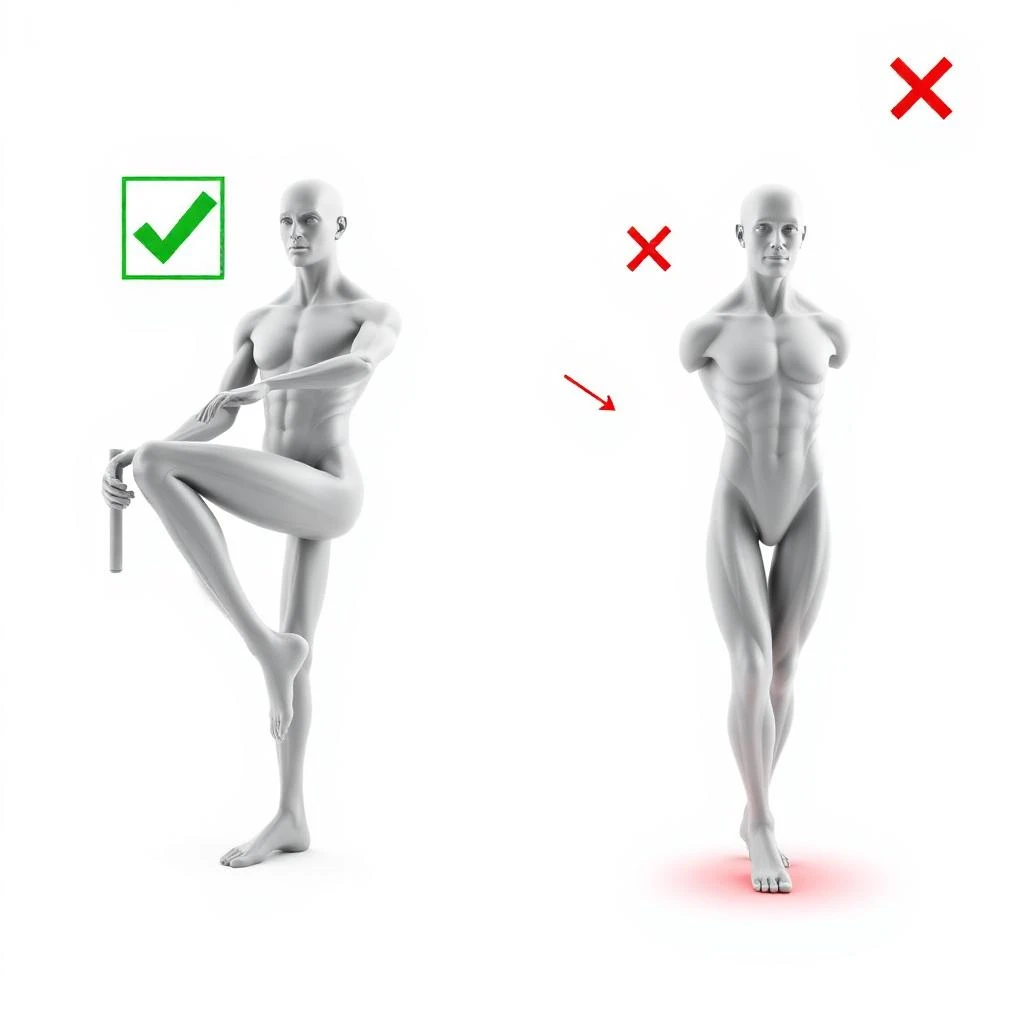
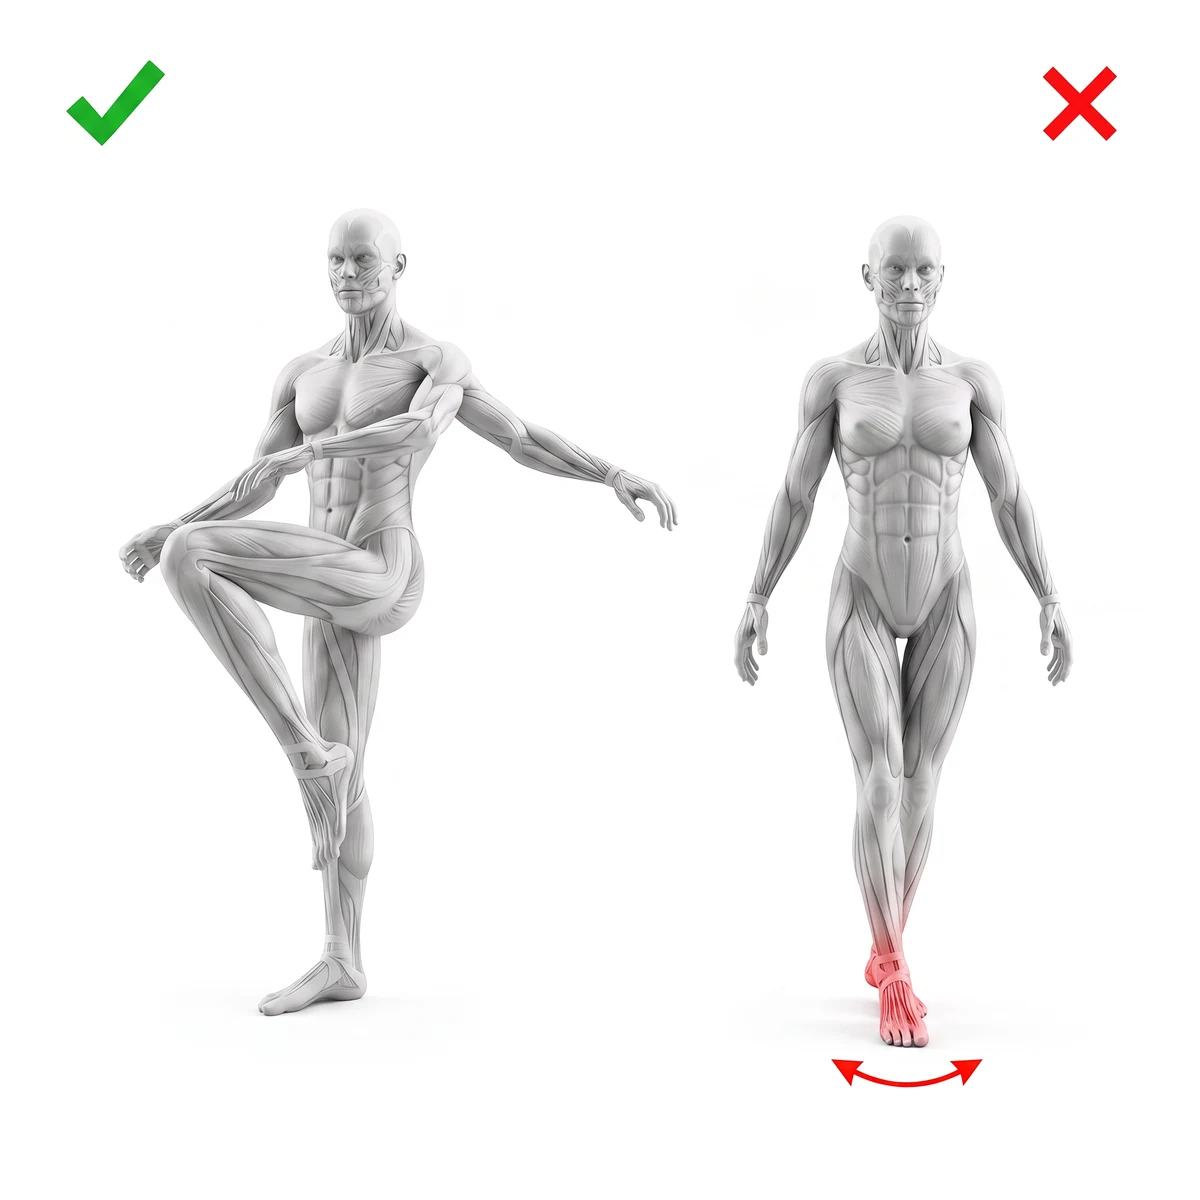
Varredura de anatomia fechada: 283 imagens de erro lidas, 9 corpos impossiveis corrigidos
O Filipe apontou o dead bug com os dois bracos saindo do mesmo ombro. As passadas
anteriores tinham fechado execucoes, analises, bonecos e variacoes; faltava a familia
das imagens de ERRO. Li as 283, uma a uma, em folha de contato de celula grande.

Nove estavam com o corpo impossivel, e nao todas do mesmo jeito:

  bird-dog-2                   uma mao solta flutuando no ar, e o pe da perna elevada virou coto
  crucifixo-inverso-0          tres halteres para duas maos, um deles sem braco nenhum segurando
  dead-bug-2                   duas cabecas e dois troncos fundidos no mesmo quadril
  equilibrio-unipodal-0        a figura do erro sem os dois bracos, amputada no deltoide
  wall-slide-1                 vao entre o ombro e a mao nas duas figuras, e parede so de um lado
  puxada-supinada-0            caveira com orbitas e dentes no lugar do rosto
  elevacao-joelhos-suspenso-1  a mesma caveira, nas duas figuras
  puxada-supinada-2            esfera branca lisa, sem rosto nenhum
  clam-shell-1                 elastico no tornozelo em vez de acima do joelho, e cabeca deformada

As tres ultimas sao a pendencia de "rosto esfolado" que a memoria do projeto ja
registrava sem caso concreto. Agora tem caso e tem correcao.

As nove foram regeradas por img2img descrevendo a GEOMETRIA e a CONTAGEM, nunca o
defeito, e conferidas com o olho uma a uma. Tres voltaram para segunda passada: o dead
bug tinha perdido um braco, o clam shell ficou espremido no rodape e o equilibrio saiu
[…]

diff --git a/.claude/skills/imagens-lovable/SKILL.md b/.claude/skills/imagens-lovable/SKILL.md
@@ -204,6 +204,57 @@ imagem ensina um aparelho que não existe.
 medível por script. O `check:pares` mede cena e proporção porque essas têm número; anatomia não
 tem. Aqui o método é o olho, e o que fica registrado é a PERGUNTA a fazer, não uma asserção.
 
+### ADENDO de 23/08/2026: as 5 formas de corpo impossível, e o download que mente duas vezes
+
+Varredura de anatomia fechada nas cinco famílias de imagem: 101 execuções, 100 análises, 101
+bonecos, 191 variações e **283 imagens de erro**. Nas variações e nos bonecos, zero defeitos
+novos. Nas imagens de erro, **9 defeitos em 283**, e eles NÃO são todos "membro no lugar errado".
+São cinco formas diferentes de corpo impossível, e vale procurar as cinco:
+
+1. **Membro solto flutuando.** Uma mão no ar, desligada de qualquer braço (`bird-dog-2`).
+2. **Membro amputado.** Os dois braços terminando no deltoide, sem antebraço nem mão
+   (`equilibrio-unipodal-0`); ou um vão entre o ombro e a mão (`wall-slide-1`).
+3. **Corpo duplicado.** Duas cabeças e dois troncos fundidos no mesmo quadril (`dead-bug-2`).
+4. **Objeto duplicado.** Três halteres para duas mãos, um deles sem braço nenhum segurando
+   (`crucifixo-inverso-0`). O contador de objetos é tão importante quanto o de membros.
+5. **Cabeça errada.** Crânio esquelético com órbitas e dentes no lugar do rosto
+   (`puxada-supinada-0`, `elevacao-joelhos-suspenso-1`), ou esfera branca lisa sem rosto
+   nenhum (`puxada-supinada-2`). Esta é a pendência de "rosto esfolado" que o projeto já
+   registrava, agora com caso concreto e com correção.
+
+**Uma família limpa não diz nada sobre a outra.** As 191 variações passaram inteiras e as 283
+imagens de erro tinham 9 defeitos. São pipelines diferentes (foto de difusão contra render 3D
+posado), e o erro de um não aparece no outro. Varra família por família.
+
+**No prompt, continue descrevendo a geometria, e acrescente a CONTAGEM.** "Exatamente DOIS
+halteres, um em cada mão, e cada haltere fechado dentro de uma mão que se liga a um antebraço,
+a um braço e a um ombro" resolveu de primeira. "Conserte os halteres" não resolveria.
+
+**Para a cabeça, descreva o que ela É, não o que ela não é.** O que funcionou: "cabeça humana
+íntegra, coberta de pele, com testa, olhos, nariz, boca, queixo e uma orelha de cada lado",
+seguido do que está proibido. Só o "não pode ser caveira" não basta.
+
+#### O download mente de dois jeitos, e os dois aconteceram aqui
+
+Ontem a regra virou "apague o local antes e busque com `?v=<timestamp>`". **Não basta.** Hoje:
+
+- **`deploy_project` devolve `status: pending` e o domínio continua servindo o build ANTERIOR,
+  por mais de dez minutos.** Baixei 9 arquivos e 8 vieram 404. O nono, `dead-bug-2.webp`, veio
+  200 e era **o arquivo de um lote anterior**, exatamente a armadilha de ontem. Só que desta vez
+  a comparação de md5 com o arquivo antigo pegou.
+- **Publicar sob um NOME NOVO destrava, mas nem sempre na hora.** O primeiro nome novo serviu o
+  build fresco na primeira tentativa; o segundo serviu o build velho e demorou.
+
+**Então a verificação de frescor é por md5, sempre.** Guarde o md5 do arquivo antigo ANTES de
+gerar, e só aceite o download quando o md5 mudar. Conferir "é imagem?" não distingue nada, e
+conferir HTTP 200 também não.
+
+**E não tente medir frescor por `Content-Length`:** `lovable.app` não responde HEAD com esse
+cabeçalho. Montei um laço de espera baseado nele e ele rodou **840 vezes com a variável vazia**,
+ou seja, nunca teve chance de ser verdadeiro. É a mesma classe de erro que a regra "verificar por
+código de saída, nunca por grep" já cobre: **uma verificação que não pode falhar não verifica
+nada.** Antes de confiar num laço de espera, imprima o valor que ele está comparando.
+
 ## Verificação é obrigatória
 
 O agente do Lovable **avisa sozinho** quando erra ("a imagem 0 saiu parecendo uma máquina de cabos"). Leia a resposta dele. Mas não confie só nisso: olhe as imagens. Nunca salve lote sem inspecionar item a item.
